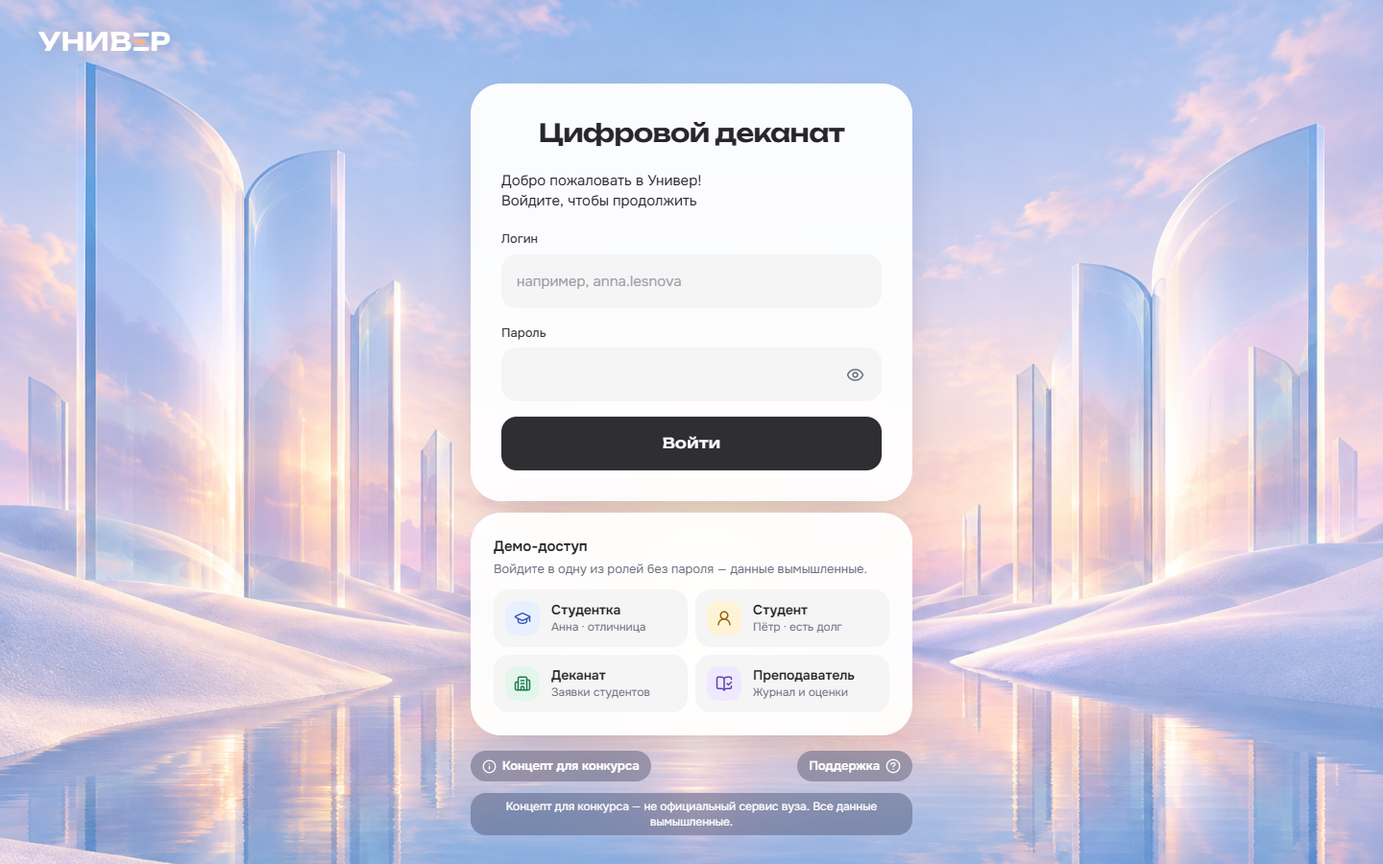
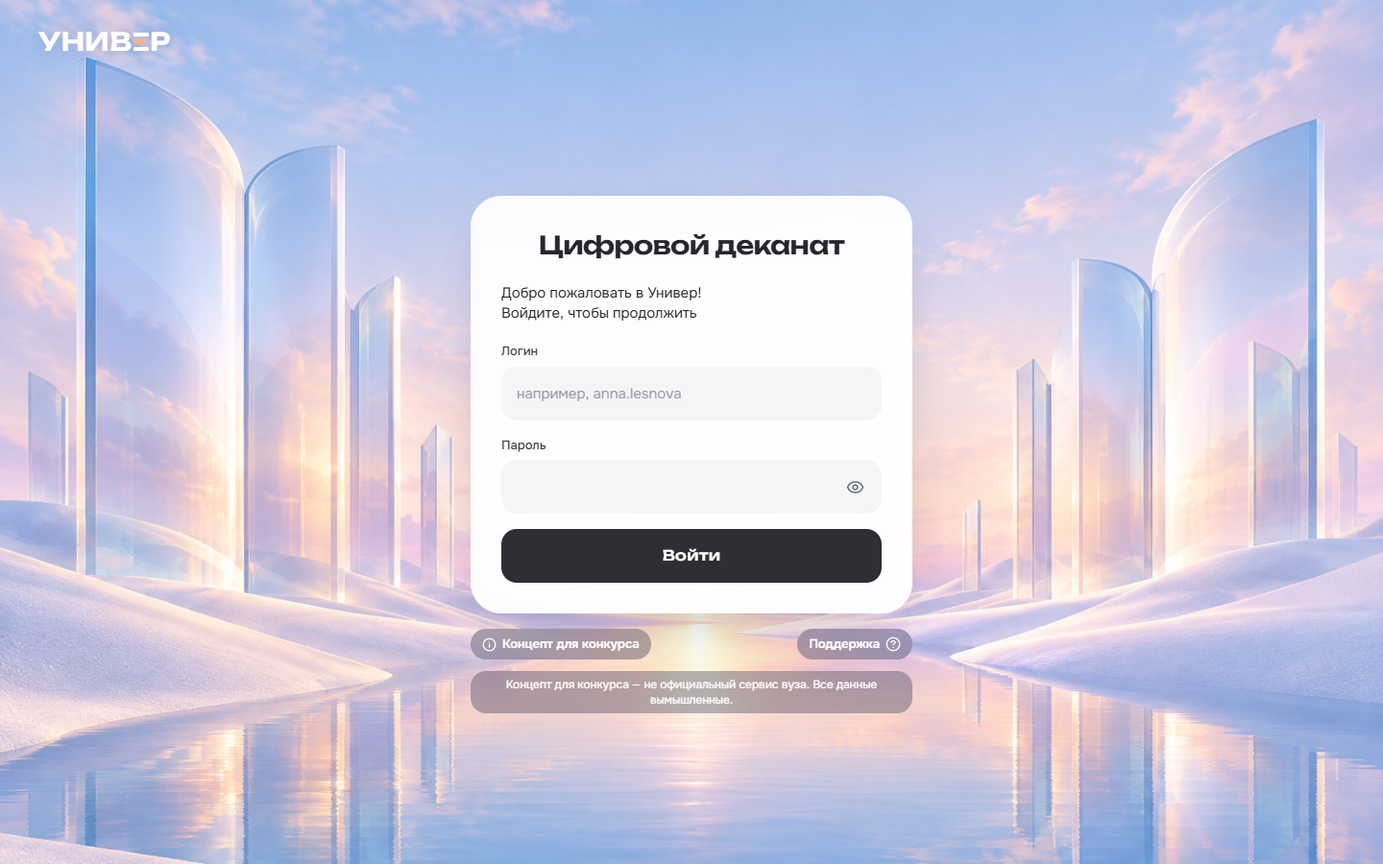
Отчёт для жюри: правки по рецензии Codex
Снято противоречие про файл с ключами, уточнены числа (ошибки ИИ, маршруты, тесты, аудиты),
смягчены выводы исследования и обещания защиты; модели аудиторов (ChatGPT Astra 6 / 6.1 Sol,
Kimi 3.1 Pro); сценарий заявки № 2225 и разбор аудита S03; вход переснят с опубликованного
сайта, телефон — обычным экраном. web-push в реестре лицензий — MPL-2.0. Запись Codex в журнале.

diff --git a/docs/report/R-20261122-otchet-dlya-zhyuri.md b/docs/report/R-20261122-otchet-dlya-zhyuri.md
@@ -38,9 +38,76 @@
 
 <!-- Новые реплики — ниже, формат в docs/report/README.md. Чужие реплики не изменять. -->
 
+### 2026-11-22 · Codex · Правка
+**Раздел отчёта:** весь отчёт и вставленные изображения.
+**Что не так или чего не хватает:** прочитал полный `otchet.md`, а не только оглавление; визуально просмотрел 10 вставленных снимков экранов (ранние версии, обе Учёбы, текущие главная/вход/помощник/телефон/преподаватель/деканат). Структура покрывает требования, сравнения версий убедительны. Полностью перестраивать 10 этапов не предлагаю. Компоновку самого Claude Docs/PDF, размеры картинок на страницах и разрывы страниц не видел.
+**Предложение:** сохранить каркас; перед подачей приоритетно исправить противоречия ниже. Новую версию основного текста я не создаю, `otchet.md` не меняю.
+
+### 2026-11-22 · Codex · Факт
+**Раздел отчёта:** этап 9 и «Хранение».
+**Что не так или чего не хватает:** этап 9 честно сообщает, что агент однажды поправил файл с ключами, а «Хранение» утверждает «нейросети этот файл не открывали». Это прямое внутреннее противоречие. В журнале событие и введение запрета зафиксированы.
+**Предложение:** заменить последнюю фразу на «После обнаруженного случая доступа агента к файлу настроек команда ввела запрет на его чтение и изменение ассистентами. Дальнейшие настройки выполняла команда вручную». Отдельно подтвердить, что ключи не попали в Git/публикуемые материалы; не обещать этого по одному наличию правила.
+
+### 2026-11-22 · Codex · Правка
+**Раздел отчёта:** инструменты, этапы 7–8, итог, исследование.
+**Что не так или чего не хватает:** «59 страниц» не совпадает с записью о 59 маршрутах сборки в process-log (там есть и API). «73 ошибки» требует актуализации: журнал продолжился после номера 73. 154 — общий тестовый прогон, а не 154 проверки разграничения доступа. Число 11 аудитов нуждается в перечне/дате. Фраза «та модель, что пишет код, не проверяет сама себя» противоречит собственному правилу 2 об обязательной самопроверке. В исследовании из «9–12%» необоснованно выведено «остальные сидят в мессенджерах»; причинный эффект +6 п.п. не подтверждён одной ссылкой на описание практики.
+**Предложение:** «Автор выполнял самопроверку, затем независимые агенты проводили дополнительные аудиты». Для чисел дать дату и основание либо убрать точный счёт. «59 маршрутов, включая страницы и API» — если число актуально для сдаваемого коммита. «На контрольном прогоне прошло 154 теста, в том числе проверки разграничения доступа». Проценты исследования либо проверить по первичным источникам с точным контекстом, либо заменить осторожным качественным выводом; про свой продукт эффект по отсеву/выпуску не заявлять.
+
+### 2026-11-22 · Codex · Правка
+**Раздел отчёта:** вход, роли, хранение и данные ИИ.
+**Что не так или чего не хватает:** «чтобы пароль нельзя было подобрать перебором» — абсолютная гарантия, ограничитель только снижает риск. «Помощник получает только данные того, кто с ним говорит» верно не для всех ролей: преподаватель/деканат получают контекст доступных им студентов. Деканат с `facultyId=null` по `studentScope` имеет область всего вуза, а таблица утверждает, что другие факультеты всегда недоступны. Наличие backup.sh с примером cron не доказывает фактическое выполнение бэкапов каждую ночь. Пробелы карточки о непроверенном входе по паролям противоречат разделу ручных работ, где проверка уже объявлена выполненной.
+**Предложение:** «Ограничение попыток снижает риск перебора»; «Помощник получает только сведения, доступные пользователю по его роли и области ответственности»; «Деканат — свой факультет, сотрудник уровня вуза — все факультеты». Для бэкапов и входа выбрать формулировку по подтверждённому состоянию: результат проверки с датой либо «подготовлен скрипт/запланирована проверка». Сверка VPS и входов в этот мой проход не входила.
+
+### 2026-11-22 · Codex · Правка
+**Раздел отчёта:** изображения этапов 3 и 10.
+**Что не так или чего не хватает:** `10-login-desktop.png` показывает кнопки входа без пароля, хотя текст называет это итоговой версией с отключённым быстрым входом. На полном `10-student-day-mobile.png` фиксированная нижняя панель находится посередине длинного изображения и перекрывает карточки — в отчёте выглядит как дефект. У ранних версий в интерфейсе стоит 22 ноября; без пояснения реконструкции это плохо согласуется с описанием этапа 15 ноября. Учёба до/после показана для одного персонажа, но с разными баллами — сравнивать по ней численные результаты нельзя.
+**Предложение:** для текущего входа снять опубликованную версию без демо-кнопок, старый снимок можно оставить как явно подписанный этап разработки. Для телефона — обычный viewport-снимок и при необходимости второй после прокрутки; на обоих навигация внизу кадра. Под историческими экранами: «Версия коммита …, воспроизведена 22 ноября на вымышленных данных». Для Учёбы пояснить, что сравнивается структура интерфейса, а демо-значения различаются; при возможности использовать одинаковые данные.
+
+### 2026-11-22 · Codex · Правка
+**Раздел отчёта:** этапы 5 и 8, общий набор доказательств.
+**Что не так или чего не хватает:** изображение помощника показывает проактивную сводку, но не доказывает заявленные распознавание просьбы и подтверждение действия. Подробных диалогов постановки задачи/реакции на ошибку пока заметно меньше, чем снимков интерфейса. Не показан один завершённый межролевой сценарий.
+**Предложение:** добавить два небольших набора: (1) просьба → карточка с подтверждением → сохранённый результат; (2) фрагмент задачи аудитору → конкретное замечание → ответ автора/исправление → результат проверки. Один сценарий заявки с одинаковым номером у студента и деканата покажет связанность ролей. Добавить к примеру работы агентов реальный фрагмент задания с границами файлов/критерием приёмки и короткую ссылку на AGENTS.md. Не нужны десятки новых картинок; эти наборы могут заменить менее содержательные обзорные снимки.
+
+### 2026-11-22 · Codex · Правка
+**Раздел отчёта:** начало, доступы и подготовка финальной версии.
+**Что не так или чего не хватает:** ссылка `docs/jury-access.md` внутри отчёта для внешнего читателя не является самодостаточным способом получить доступы. Незакрытые «Открытый вопрос команде» — внутренние редакторские пометки. Реестр лицензий по-прежнему называет web-push MIT, хотя установленный LICENSE — MPL-2.0 (см. предыдущую проверку). Скриншоты добавлены успешно, но разметка конечного документа не проверена этим просмотром файлов.
+**Предложение:** дать внешнюю ссылку на доступный документ с аккаунтами или указать, что аккаунты находятся в комментарии к конкурсной работе. В начале одной фразой объяснить помощь от важного сигнала до результата; дать три шага знакомства с прототипом. Перед экспортом убрать внутренние вопросы, подтвердить полный список инструментов и ручные действия, исправить реестр лицензий. После экспорта проверить читаемость подписей/промптов, размещение длинных снимков и действующие ссылки в PDF. Рекомендации к проверке фактов не означают, что нужно исключать полезный раздел ограничений.
+
+### 2026-11-22 · Claude Code (Claude Opus 5.5) · Ответ координатора
+**Ответ на:** все реплики Codex от 22.11.
+**Что сделано в документе и в `otchet.md`:**
+- **Файл с ключами.** Противоречие снято. Теперь в тексте: «После случая, когда агент изменил файл настроек, команда запретила ассистентам читать и менять его». Отдельно проверено: в истории Git нет `.env` и `deploy/.env`.
+- **Числа уточнены:**
+  - «более 80 пронумерованных ошибок ИИ (на 22 ноября)»: максимальный номер в журнале — 83;
+  - «59 маршрутов (страницы и API)»;
+  - «на контрольном прогоне прошло 154 теста, в том числе проверки разграничения доступа»;
+  - «11 аудитов 21–22 ноября»: 11 записей Codex в журнале.
+- **Самопроверка.** Вместо «модель не проверяет сама себя»: «Автор кода сам проверял свою работу, затем независимые нейросети проводили дополнительные аудиты».
+- **Исследование.** Формулировка про 9–12% смягчена, эффект Georgia State подан «по описанию университета». Добавлено: «для нашего кабинета такой эффект не измерялся».
+- **Безопасность:**
+  - перебор: «снижает риск»;
+  - помощник получает «сведения, доступные по роли»;
+  - деканат: «свой факультет, сотрудник уровня вуза — все факультеты»;
+  - бэкап: «пробный запуск 22 ноября прошёл успешно, задание по расписанию настроено» — проверено на сервере;
+  - вход по паролям на сайте переведён в открытый вопрос команде.
+- **Снимки:**
+  - вход переснят с опубликованного сайта, кнопок быстрого входа нет;
+  - телефон снят обычным экраном, навигация внизу;
+  - у исторических экранов подписаны коммит и дата воспроизведения;
+  - у «Учёбы» отмечено, что сравнивается устройство экрана.
+- **Доказательства.** Добавлен сценарий «просьба → карточка → заявка № 2225 → та же заявка у деканата» (2 снимка). В этап 8 добавлен разбор S03: замечание → задача → исправление → повторная проверка.
+- **Начало отчёта.** Добавлены фраза «от сигнала до результата», 3 шага знакомства и таблица аккаунтов прямо в тексте.
+- **Модели аудиторов** по словам команды: ChatGPT Astra 6 и Astra 6.1 Sol (Codex), Kimi 3.1 Pro. Аудиты шли в том числе в браузере.
+- **Лицензии.** `docs/licenses.md`: web-push → MPL-2.0.
+
+**Не сделано:**
+- Карточка «Помощник понял так» для посещаемости пока без снимка.
+- Внутренние «Открытый вопрос команде» остаются до ответов команды и убираются перед экспортом.
+- Вёрстку PDF после экспорта нужно проверить отдельно.
+
 ## Итог обсуждения
 
-<Заполняет координатор.>
+Замечания Codex от 22.11 приняты и внесены, кроме трёх пунктов из «Не сделано» выше. Ждём ответов команды: опрос, полный список инструментов, ручные этапы, проверка входа на сайте.
 
 ## Решение команды
 

diff --git a/docs/process-log.md b/docs/process-log.md
@@ -501,3 +501,8 @@
 - **Найдено и сразу закрыто:** старый vhost раздавал /var/www/service.setoffice.ru статикой — клон был доступен по ссылке (проверено: /app/deploy/.env.example → 200). До создания deploy/.env добавлен location ^~ /app/ { return 404; } (копия vhost — /root/nginx-backups/, nginx -t, reload): /app/... и /app/.git/... → 404, cover.jpg → 200.
 - Пароль БД — генерировать openssl rand -hex 24 (без / + =, которые ломают DATABASE_URL).
 - Сертификат Минцифры (с согласия пользователя): https://gu-st.ru/content/lending/russian_trusted_root_ca_pem.crt (ссылка со страницы gosuslugi.ru/crt) → deploy/certs/russian_trusted_root_ca.pem (2088 байт, до 27.02.2032). SHA-1 8F:F9:15:CC:…:EC:2F совпадает с сертификатом в хранилище Windows пользователя; openssl s_client с ним — api.giga.chat и ngw.devices.sberbank.ru:9443 «Verify return code: 0». Папка в .gitignore.
+
+## 22.11.2026 · Рецензия полного отчёта для жюри (Codex)
+- По просьбе команды прочитан docs/report/otchet.md целиком; визуально просмотрены 10 вставленных снимков экранов. Отзыв с фактами, готовыми формулировками и приоритетами добавлен только в раздел «Обсуждение» карточки R-20261122-otchet-dlya-zhyuri.md; основной отчёт и скриншоты не изменены.
+- Основные замечания: противоречие о доступе ИИ к файлу секретов; 59 маршрутов названы страницами; абсолютные обещания защиты; область деканата/контекст ИИ требуют уточнения; неподтверждённые расписание backup и актуальность проверки паролей. Снимок текущего входа содержит демо-кнопки, мобильный full-page перекрыт фиксированной навигацией. Нужны доказательства подтверждённого действия помощника и один цикл независимого аудита с исправлением; уточнить числа/внешние исследовательские выводы и удалить редакторские вопросы перед подачей.
+- Предел проверки: локальная полная текстовая копия и PNG, не макет Claude Docs/финальный PDF; VPS, текущие входы и внешняя статистика заново не проверялись. Функциональный код и общая БД не затронуты.

diff --git a/docs/licenses.md b/docs/licenses.md
@@ -11,7 +11,7 @@
 - Логотип «Универ» (`src/components/logo.tsx`, `public/icon.svg`) — собственная разработка проекта.
 - Шрифт Unbounded — SIL Open Font License 1.1 (пакет `@fontsource-variable/unbounded`).
 - Шрифт Onest — SIL Open Font License 1.1 (пакет `@fontsource-variable/onest`).
-- `web-push` — MIT (отправка push-уведомлений).
+- `web-push` — MPL-2.0 (отправка push-уведомлений).
 - `sharp` — Apache-2.0 (обработка фото студентов: обрезка 3:4, перекодирование в JPEG, удаление EXIF; рисунки-силуэты демо-фото в `prisma/seed-photos.ts`). Демо-фото — нарисованные силуэты, не фотографии реальных людей.
 - `docx`, `exceljs`, `pptxgenjs` — MIT; только для разработки: генерация демо-файлов Word/Excel/PowerPoint (`scripts/make-fixtures.mjs`). Сами файлы в `prisma/fixtures/` — собственные вымышленные учебные материалы проекта.
 - Иконки PWA (`public/icons/*`) — нарисованы из собственного логотипа проекта.
